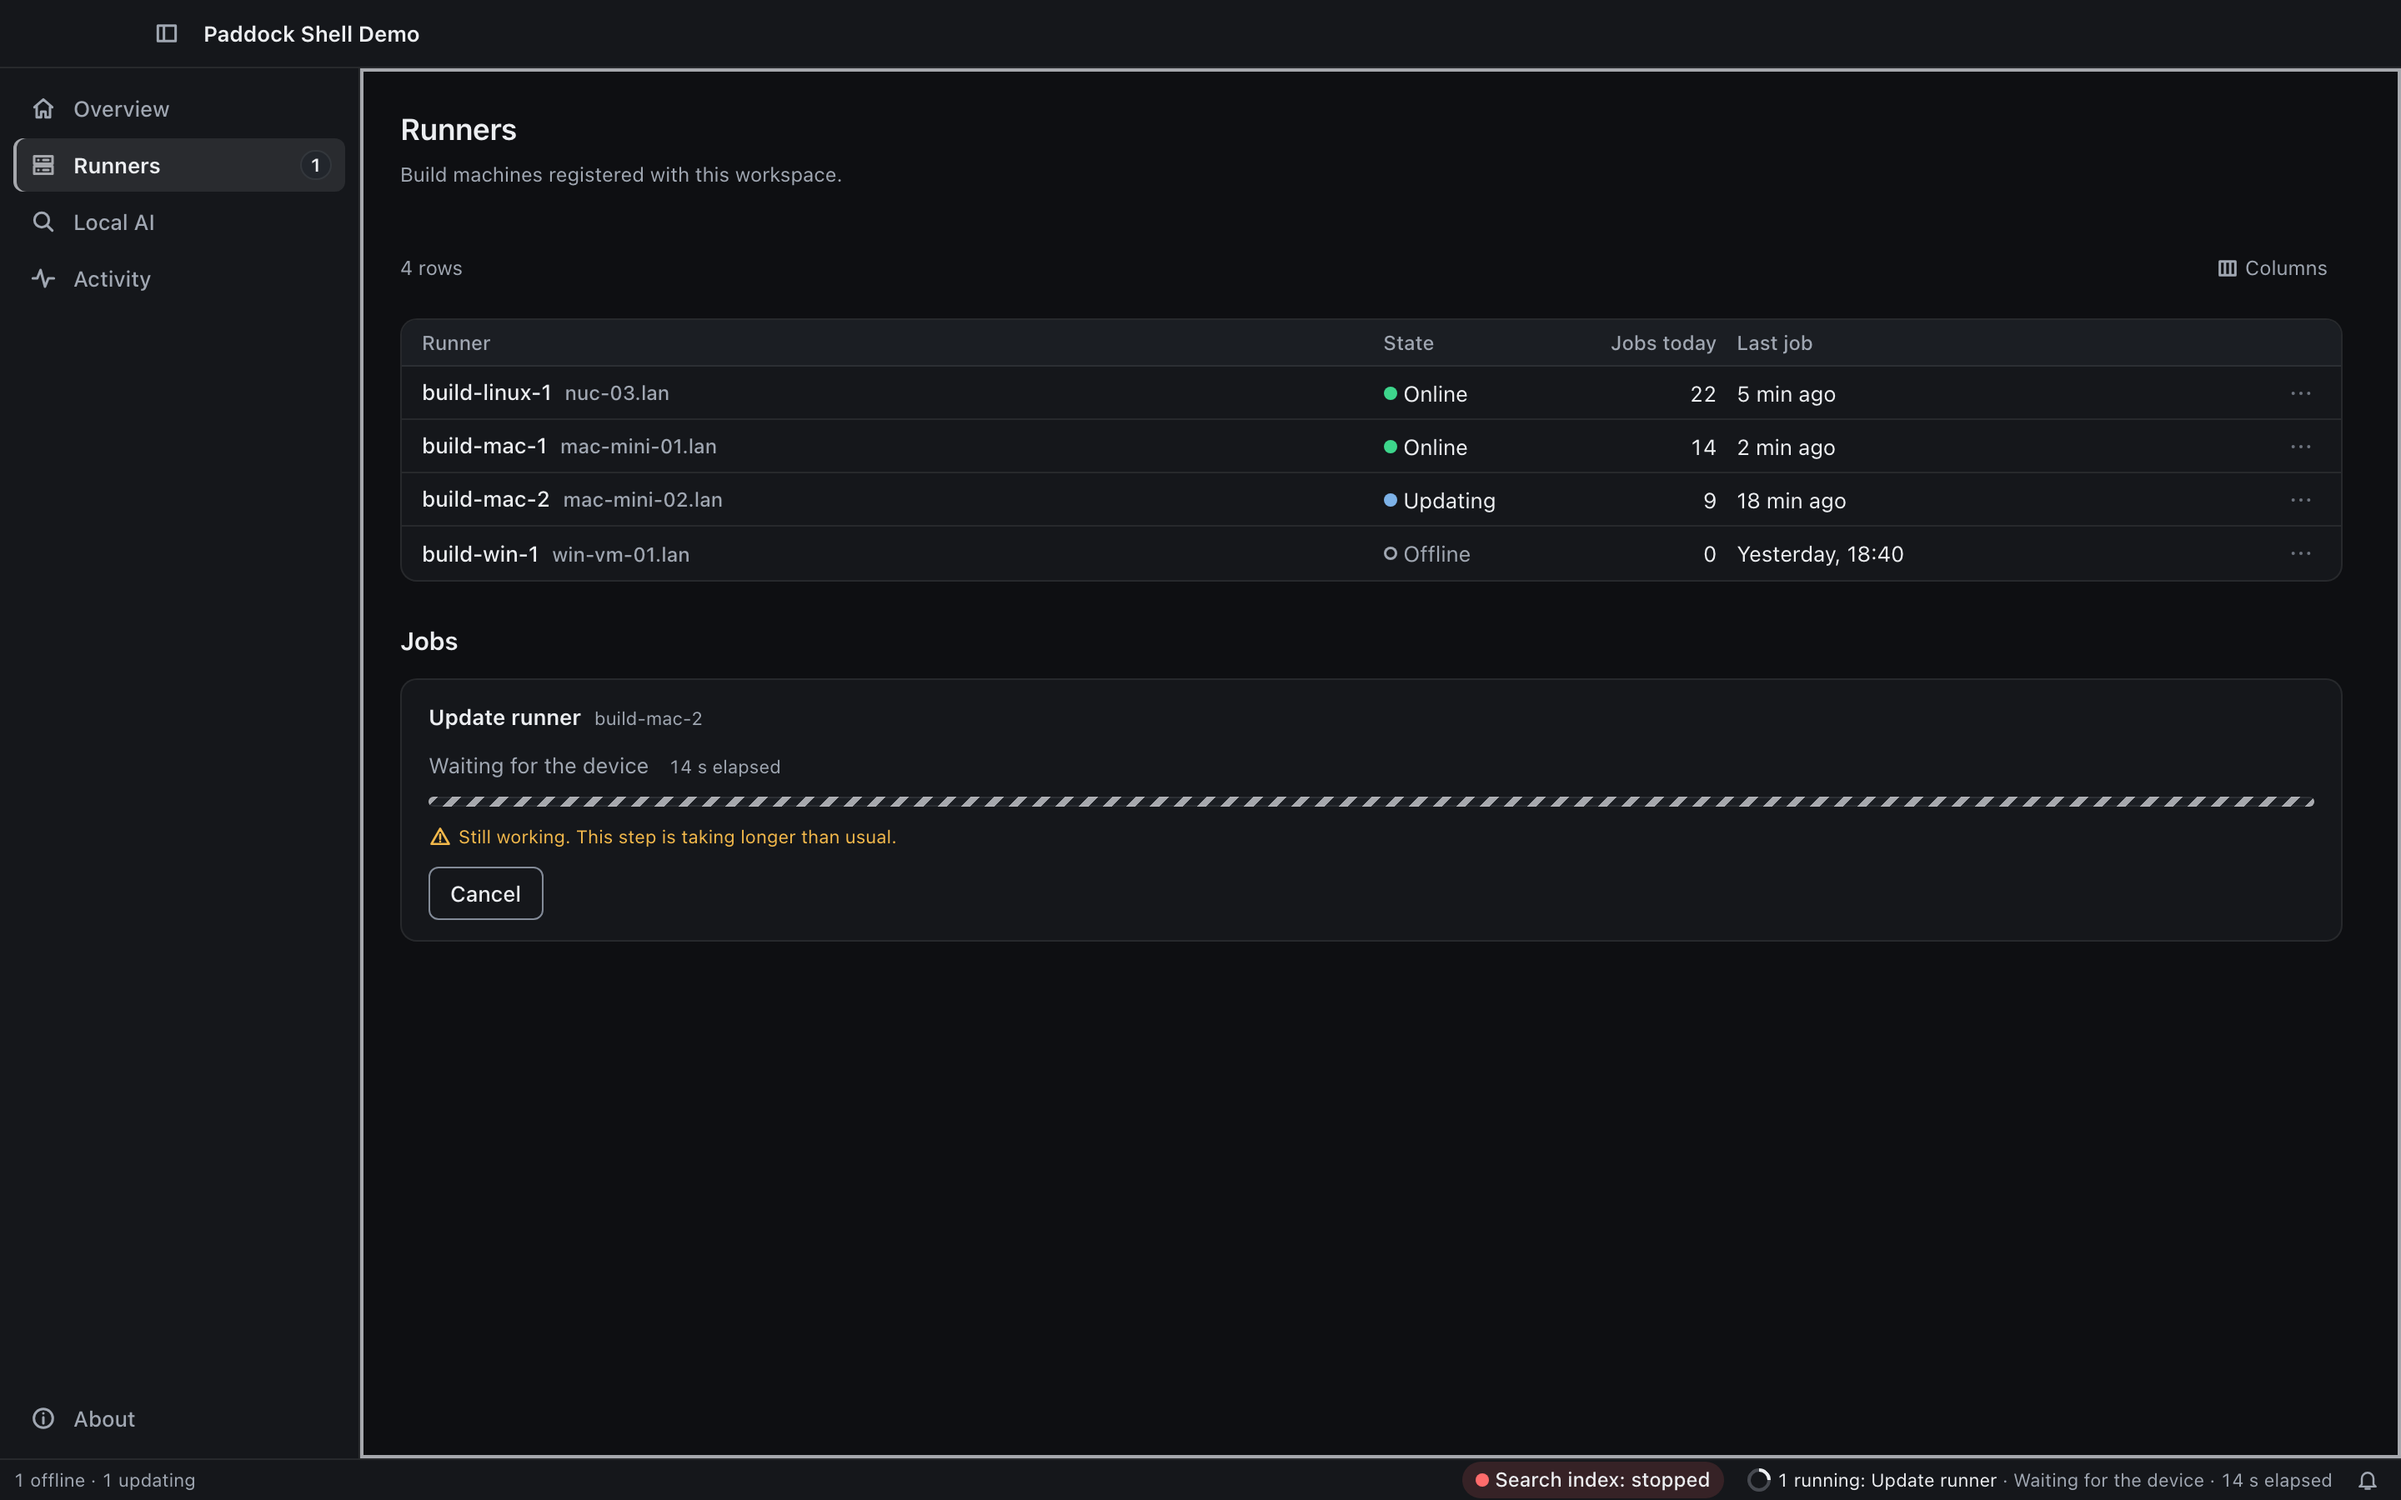
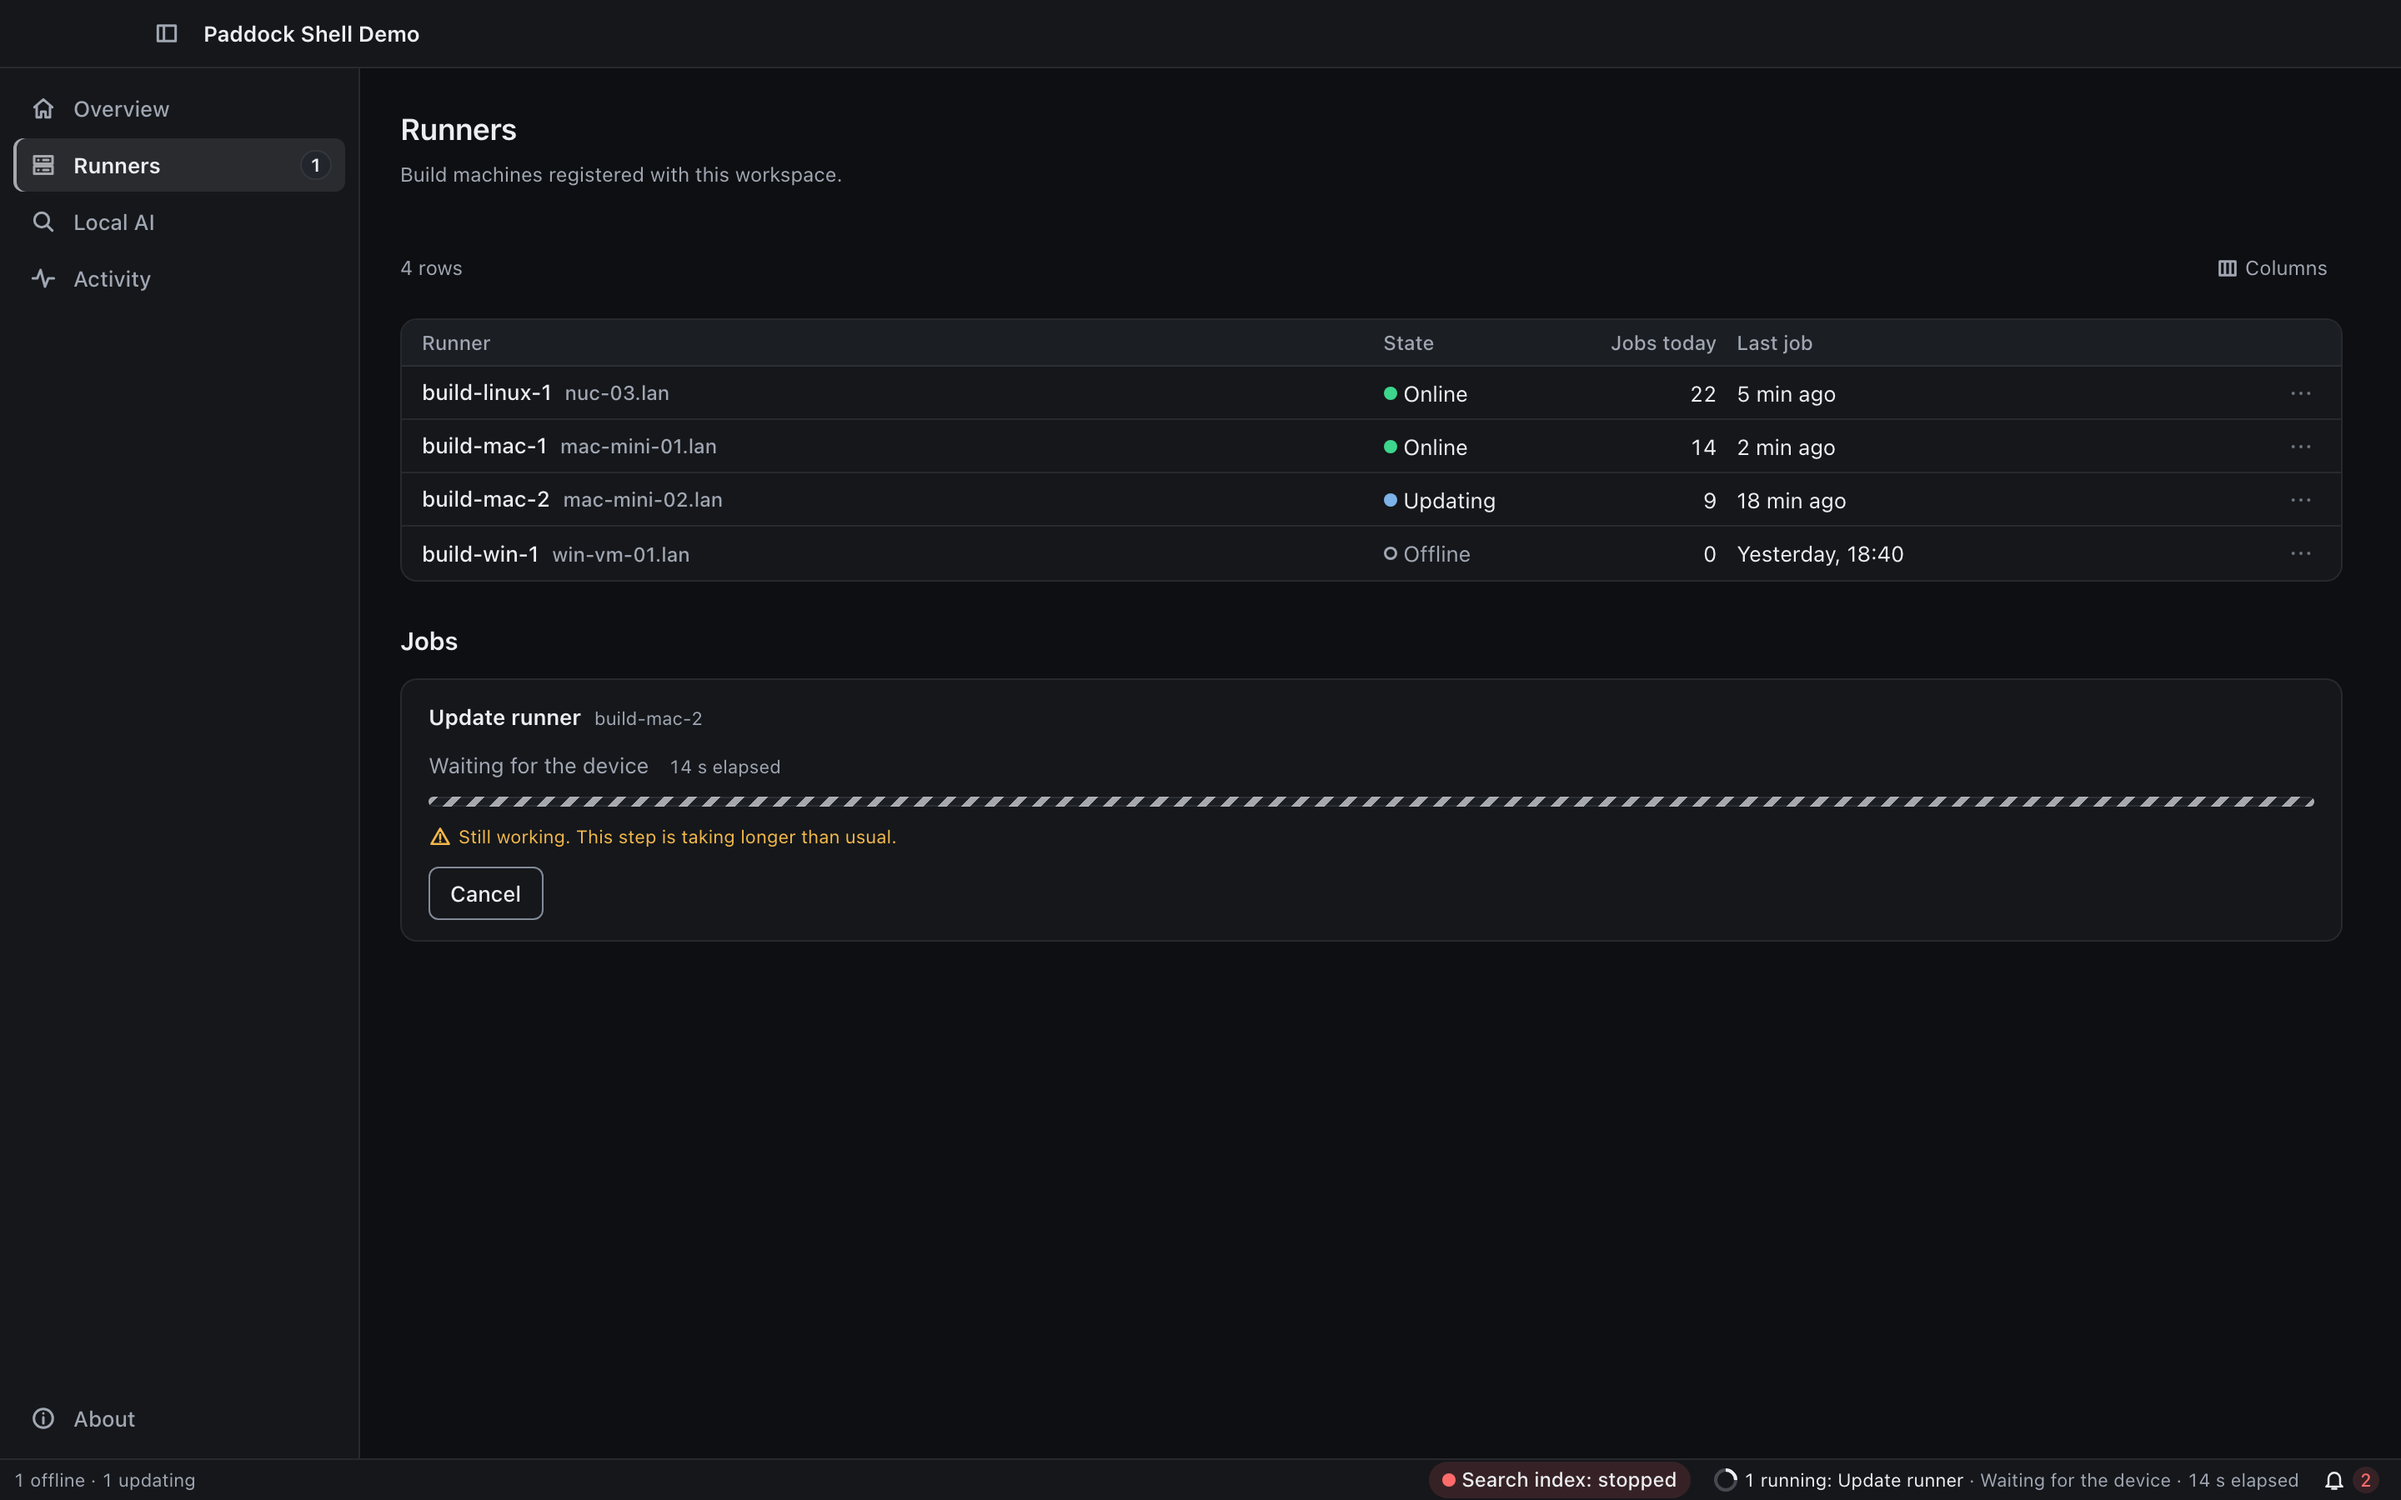
fix(e2e): the macOS shot answers the notices and takes no focus ring; drop the stale review rows of the four changed images
The Tauri fake returns the two unread notices the browser scene ends with, so the bell shows 2. The desktop scene clicks on empty ground before it navigates, as the browser scene does through its buttons, so the page it focuses after the navigation shows no focus ring: the app's focus-after-navigation is intended, only the harness lacked a pointer input. The REVIEWED.md rows of pages-narrow-open and pages-rail-open (dark, light) are removed because those images changed.

Changed region(s): [[0.5938, 0.9644, 1.0, 1.0]]

diff --git a/ui/e2e/screenshots.spec.ts b/ui/e2e/screenshots.spec.ts
@@ -121,6 +121,8 @@ async function scene(page: Page, size: { readonly width: number; readonly height
     await page.getByRole('button', { name: 'Break the search index' }).click();
     await page.getByRole('button', { name: 'Notify three times' }).click();
   }
+  // The browser scene has clicked by now, so the page it focuses after the navigation shows no focus ring (:focus-visible follows the last input). The desktop scene clicks on empty ground first, so it is the same.
+  if (desktop) await page.mouse.click(150, size.height - 200);
   await page.evaluate(() => (location.hash = '#/runners'));
   await expect(page.locator('sd-runners-page')).toBeVisible();
   await expect(app.sidebar.link('Dialogs')).toHaveCount(0);
@@ -200,6 +202,9 @@ doc({
     // The fake answers the job and health calls with the scene the browser shots stage by hand (a running job, the search index down), so this shot differs only in its title bar.
     const cause = { message: 'The search index stopped: a segment is damaged.', hint: 'Search is unavailable until it is reset; resetting rebuilds it from the logs.', detail: 'index: checksum mismatch in segment 3', code: null, raiseCap: null, settings: null };
     const job = { id: 1, kind: 'demo', title: 'Update runner', subject: 'build-mac-2', seq: 2, elapsedMs: 0, etaMs: null, cancellable: true, notCancellableReason: null, state: 'running', phase: { id: 'wait', label: 'Waiting for the device', unit: 'items', total: null, done: 0 } };
+    const notice = { code: null, at: 0, firstAt: 0, read: false, primary: null, secondary: null, tertiary: null, link: { window: null, jobId: null, path: null }, scope: 'app' };
+    const indexNotice = { ...notice, id: 1, source: 'health', severity: 'error', title: cause.message, body: cause.hint, count: 1, cause: 'health:sd.index' };
+    const diskNotice = { ...notice, id: 2, source: 'sd.greeting', severity: 'warning', title: 'The disk is almost full', body: '', count: 3, cause: 'ui:sd.greeting:The disk is almost full' };
     await installTauriFake(page, {
       platform: 'mac',
       otherwise: 'null',
@@ -212,7 +217,8 @@ doc({
             { service: 'sd.agent', label: 'the demo agent', state: 'ok', cause: null, repair: null },
           ],
         },
-        notifications_list: { revision: 1, notices: [], unread: 0 },
+        // The two unread messages the browser scene ends with: the index outage and the greeting warning, merged three times.
+        notifications_list: { revision: 2, notices: [indexNotice, diskNotice], unread: 2 },
         jobs_snapshot: [job],
       },
     });

diff --git a/ui/docs/screenshots/REVIEWED.md b/ui/docs/screenshots/REVIEWED.md
@@ -193,10 +193,6 @@ A row is valid only while its hash equals the image; a regenerated image that ch
 | light/spotter/sparkline.png | 49195fc46ef7aed16e3e4e24d0bff99e083118dddfb20df232fc2e16b5c65c46 | independent review (Opus) | 2026-10-25 |
 | light/spotter/status-pill.png | fb0fda8dc9615112a0983b2d5c613051c9fa71829e34063003d34d88a7289f52 | independent review (Opus) | 2026-10-25 |
 | light/spotter/tray-popover.png | 7b7d5e2f04515d0c1ccd32a9c75ec967f9e556b81790d6a6819ef2d436e5327c | independent review (Opus) | 2026-10-25 |
-| shell-demo/pages-narrow-open-dark.png | e046de12dd58eab9f1f7fd24334e1813b8fcbcc58e2873f0a76bfa7a88e7c84a | independent review (Opus) | 2026-10-25 |
-| shell-demo/pages-narrow-open-light.png | 79b118746c0a8891da4a60b602447d1b2046b065802d1ef8b99af457c4aa9b75 | independent review (Opus) | 2026-10-25 |
-| shell-demo/pages-rail-open-dark.png | 2f6d5c4d8aedbbd08d2c348899cd33fd6f91df956c7c779e78fdef9b434689f5 | independent review (Opus) | 2026-10-25 |
-| shell-demo/pages-rail-open-light.png | f1416f77c4f7979933bcec6b08e805f6bedadd1e0111b2294520ee34899a5174 | independent review (Opus) | 2026-10-25 |
 | shell-demo/theme-dark.png | 7c37d3f801936756058f7e1c614acd2796bc9e91d8fcbc63d65e7b9b779be30e | independent review (Opus) | 2026-10-25 |
 | shell-demo/theme-high-contrast-dark.png | c88dddaad182c3fb402470c6a2b405906c7236fe976e52679cadd0495827baf2 | independent review (Opus) | 2026-10-25 |
 | shell-demo/theme-high-contrast-light.png | 30bfc6827f24ca6a80322cad5abc517d7bfaf5a0c4edeacd5806a15b87b884aa | independent review (Opus) | 2026-10-25 |
